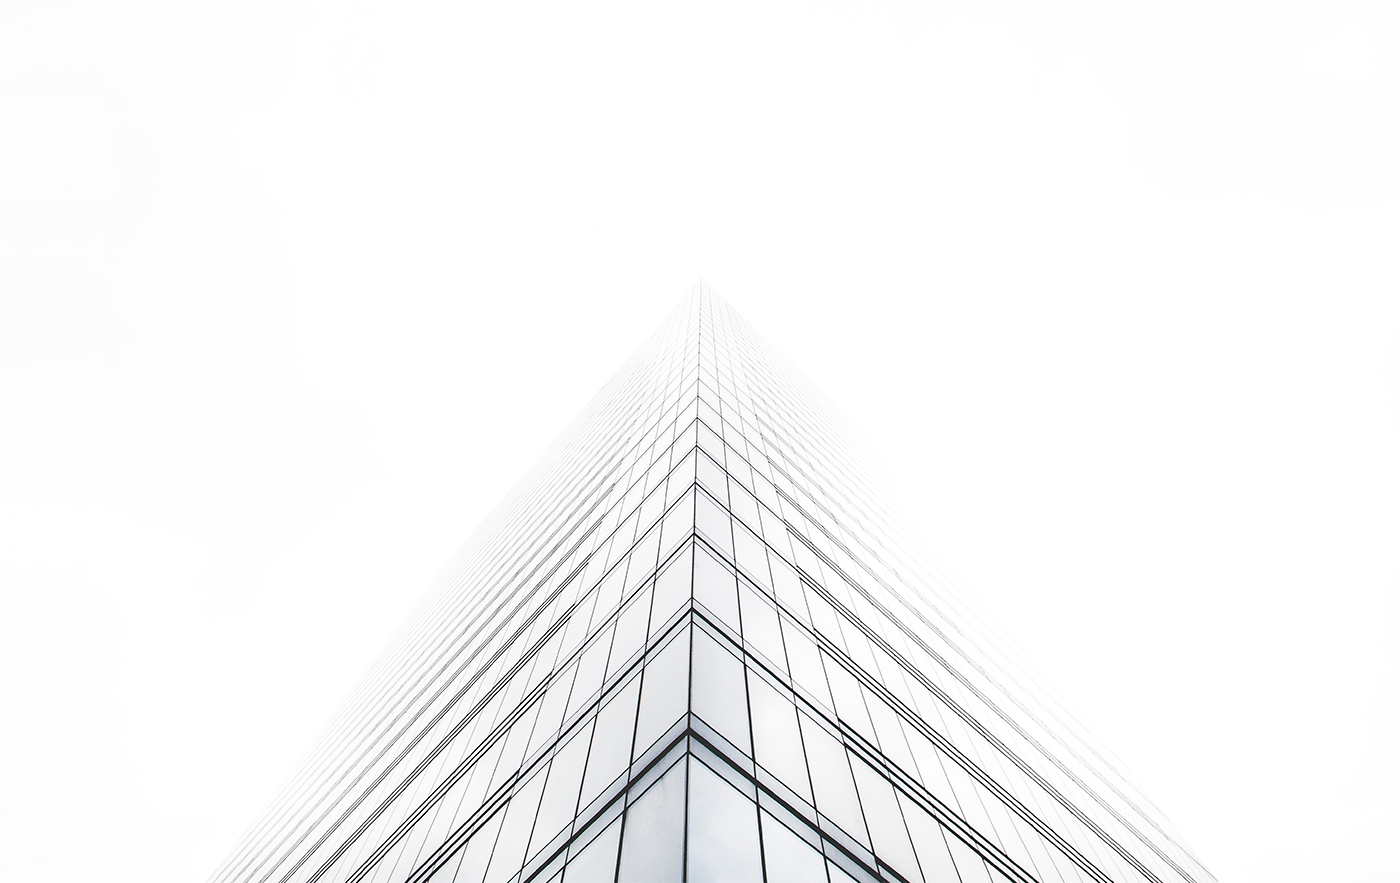
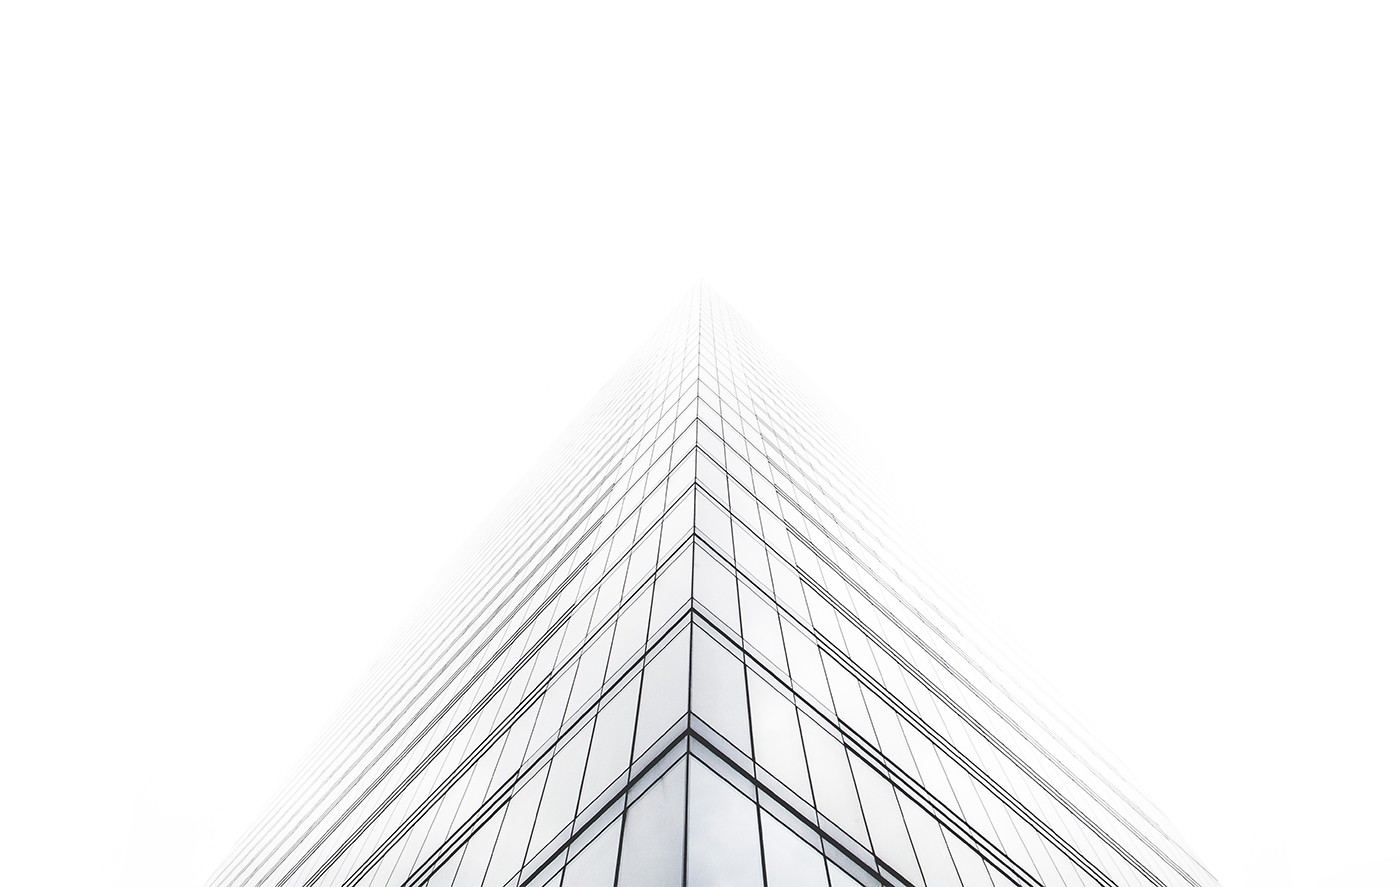
change hero image, change hero height

Changed region(s): [[0.1536, 0.4281, 0.86, 1.0]]

diff --git a/css/main.css b/css/main.css
@@ -303,7 +303,7 @@ img {
 		display: block;
 		text-align: center;
 		width: 100%;
-		margin-bottom: 2rem;
+		margin-bottom: 0;
 	}
 
 	.header-menu {
@@ -331,7 +331,7 @@ img {
 	}
 
 	.main-page-hero {
-	    height: calc(100vh - 97px);
+	    height: calc(100vh - 80px);
 	}
 
 	.main-page-services__item {
